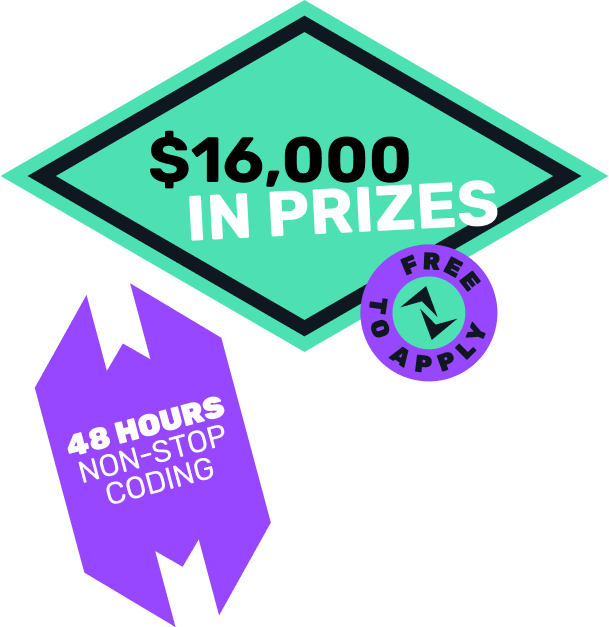
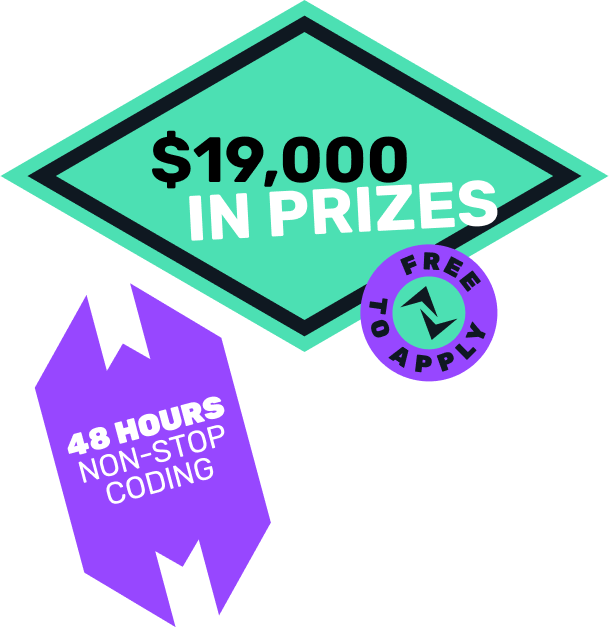
Update hackathon page

Changed region(s): [[0.2496, 0.2121, 0.6864, 0.303]]

diff --git a/components/hackathon/prizes/prizes.js b/components/hackathon/prizes/prizes.js
@@ -4,28 +4,28 @@ const Prizes = () => (
   <div className={styles.prizes}>
     <div className="container">
       <div className={styles.header}>
-        <p className={styles.totalAmount}>$16,000</p>
+        <p className={styles.totalAmount}>$19,000</p>
         <p className={styles.prizeTitle}>Available in prizes</p>
       </div>
       <div>
         <div className={styles.topRow}>
           <div className={styles.prize}>
-            <img src="/logo-aligned.svg" alt="ETH Belgrade logo"/>
+            <img src="/images/partners/EF-ESP-logo.svg" alt="ETH Belgrade logo"/>
             <p className={styles.prizeAmount}>$10,000</p>
           </div>
           <div className={styles.prize}>
-            <img src="/images/partners/renfter-logo.svg" alt="Renfter logo"/>
+            <img src="/logo-aligned.svg" alt="ETH Belgrade logo"/>
             <p className={styles.prizeAmount}>$5,000</p>
           </div>
         </div>
         <div className={styles.row}>
           <div className={styles.prize}>
-            <img src="/images/partners/taikai.svg" alt="TAIKAI logo"/>
-            <p className={styles.prizeAmount}>$1,000</p>
+            <img src="/images/partners/renfter-logo.svg" alt="Renfter logo"/>
+            <p className={styles.prizeAmount}>$3,000</p>
           </div>
           <div className={styles.prize}>
-            {/*<img src="/images/partners/renfter-logo.svg" alt="RENFTER logo"/>*/}
-            <p className={styles.prizeAmount}>Coming soon</p>
+            <img src="/images/partners/taikai.svg" alt="TAIKAI logo"/>
+            <p className={styles.prizeAmount}>$1,000</p>
           </div>
           <div className={styles.prize}>
             {/*<img src="/images/partners/renfter-logo.svg" alt="RENFTER logo"/>*/}

diff --git a/components/hackathon/sponsors/sponsors.js b/components/hackathon/sponsors/sponsors.js
@@ -7,6 +7,11 @@ const Sponsors = () => (
         <p className={styles.title}>Sponsors</p>
         <div className={styles.sponsorList}>
           <div className={styles.sponsor}>
+            <a href="https://esp.ethereum.foundation/" target="_blank" rel="noreferrer noopener">
+              <img src="/images/partners/EF-ESP-logo.svg" alt="EF ESP logo" />
+            </a>
+          </div>
+          <div className={styles.sponsor}>
             <a href="https://renfter.com/" target="_blank" rel="noreferrer noopener">
               <img src="/images/partners/renfter-logo.svg" alt="Renfter logo" />
             </a>
